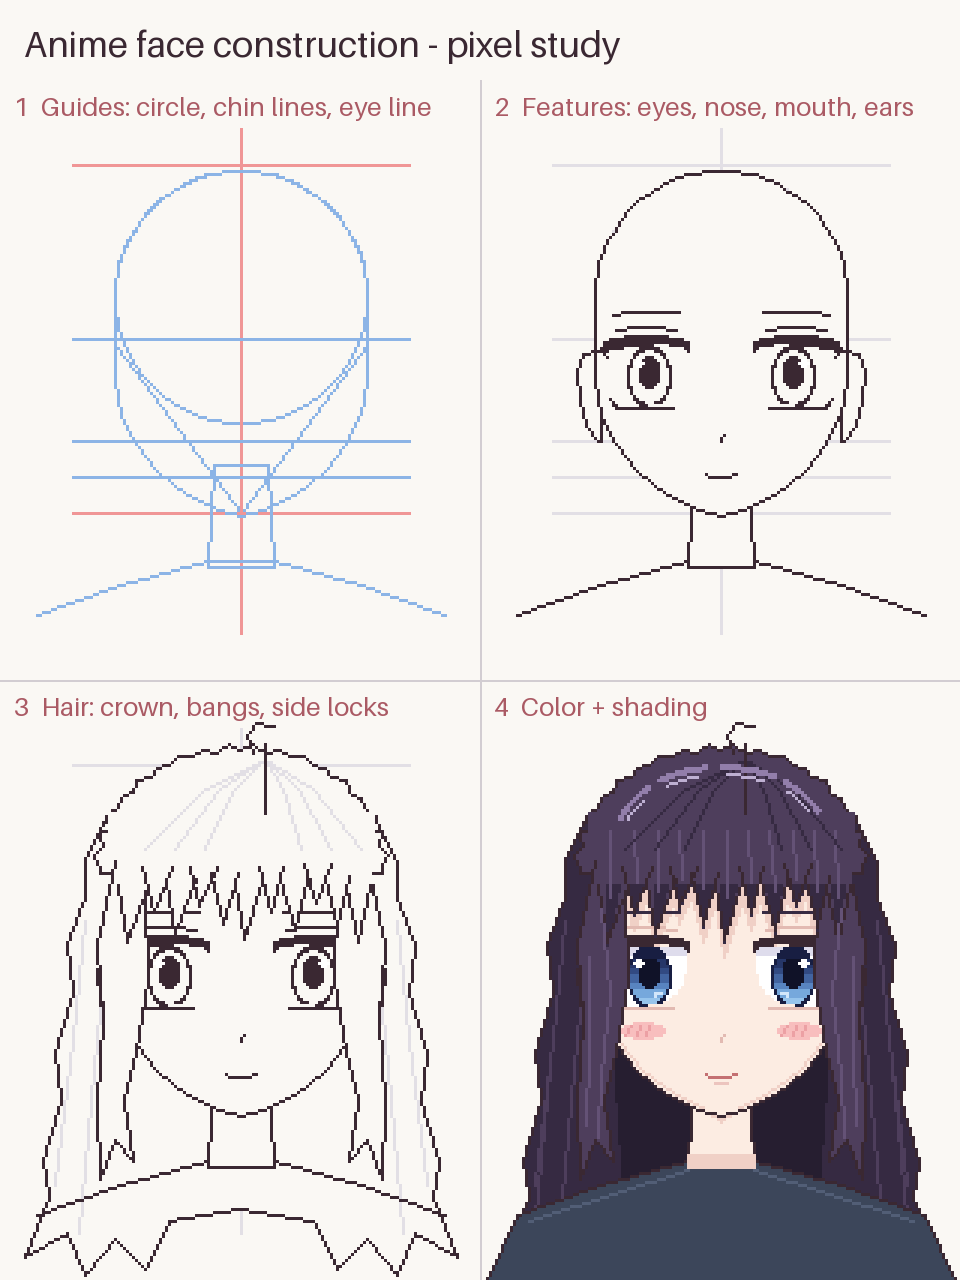
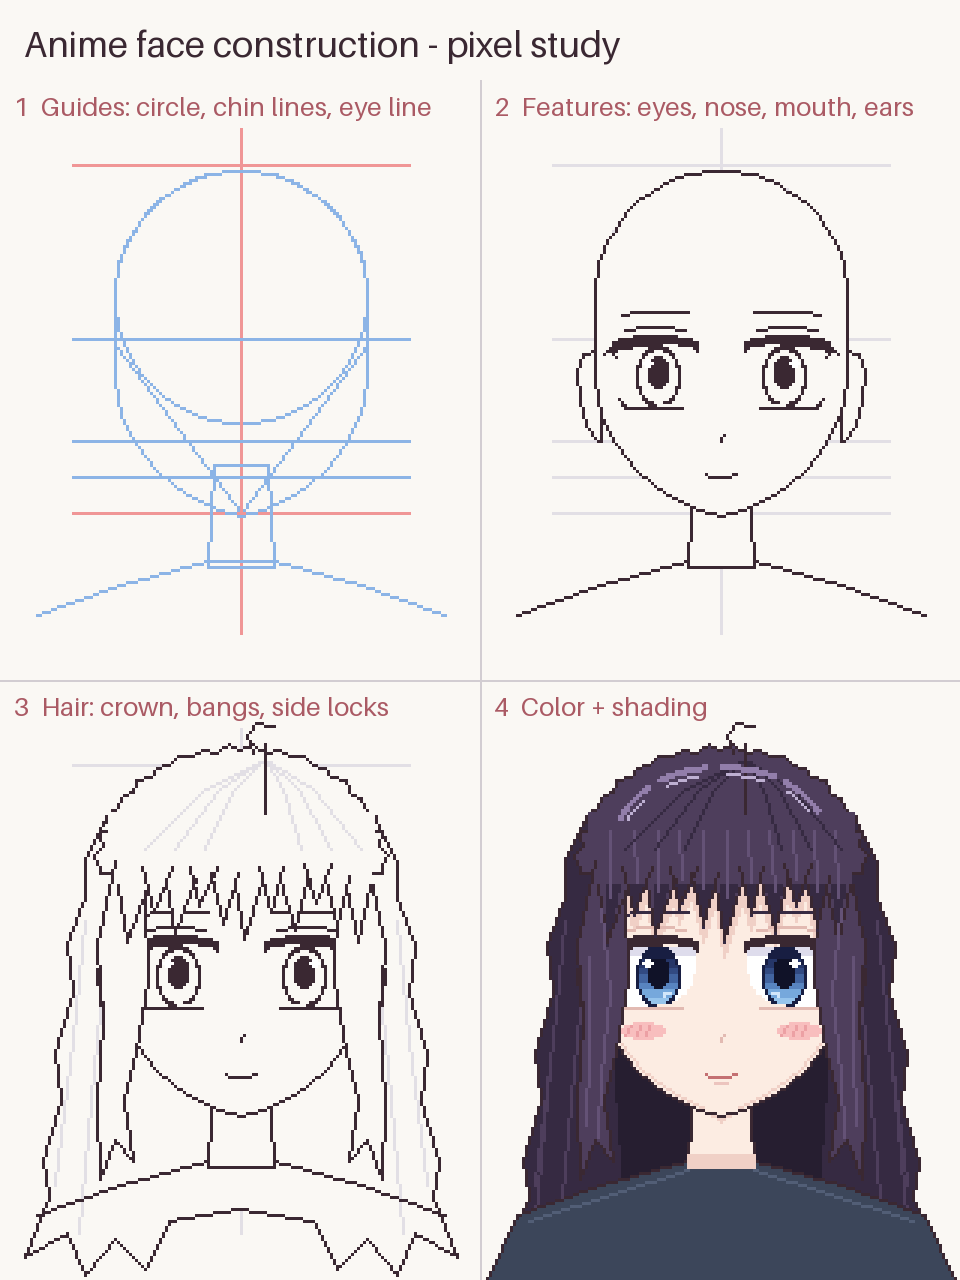
Face study: move eyes closer together
Claude-Session: https://claude.ai/code/session_0155yoUibrhMAmrpcv8V9b9L

diff --git a/draw_face_study.py b/draw_face_study.py
@@ -176,8 +176,8 @@ def eye(pen, cx, flip, color):
 
 
 def features(pen, color):
-    eye(pen, CX - 12.5, False, color)
-    eye(pen, CX + 12.5, True, color)
+    eye(pen, CX - 11, False, color)
+    eye(pen, CX + 11, True, color)
     nose = SKIN_SHADE2 if color else LINE
     pen.line([(CX + 0.5, NOSE_Y - 1), (CX, NOSE_Y)], fill=nose)
     m = LIP if color else LINE
